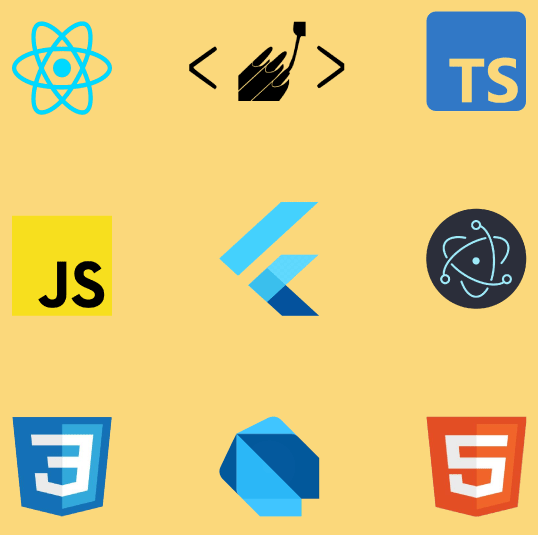
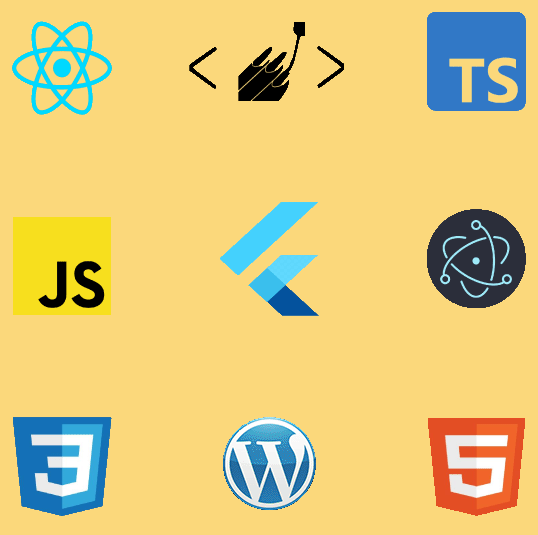
edited the text now

diff --git a/src/Components/Skills/Main.tsx b/src/Components/Skills/Main.tsx
@@ -6,15 +6,13 @@ import {
   Header,
   ImageContainer,
   Img,
-  List,
-  ListItem,
   MobileContainer,
   MobileWrapper,
   Paragraph,
   TextContainer,
   Wrapper,
 } from "./styles";
-import { ListContainer, Title, TitleContainer } from "./Skill/styles";
+import { Title, TitleContainer } from "./Skill/styles";
 
 const Main: React.FC = () => {
   const [end, setEnd] = useState<string>("front");
@@ -56,35 +54,28 @@ const Main: React.FC = () => {
                 <>
                   <Header>Front-end :</Header>
                   <Paragraph>
-                    when it comes to Front-end, apart from the will and ability
-                    to learn anything here are some of the technologies i work
-                    with:
+                    Creating user-friendly and visually stunning Front-end
+                    experiences is my passion. I specialize in using modern
+                    technologies such as ReactJS, JavaScript/TypeScript, and
+                    Flutter to build custom solutions that exceed your
+                    expectations. With experience in frameworks like React
+                    Native and Electron, as well as platforms like WordPress, I
+                    have the versatility to deliver the best solution for your
+                    business needs
                   </Paragraph>
-                  <ListContainer>
-                    <List>
-                      <ListItem>ReactJS / native</ListItem>
-                      <ListItem>Javascript/TypeScript</ListItem>
-                      <ListItem>Electron</ListItem>
-                      <ListItem>Flutter</ListItem>
-                    </List>
-                  </ListContainer>
                 </>
               ) : (
                 <>
                   <Header>Back-end :</Header>
                   <Paragraph>
-                    when it comes to Back-end, apart from the will and ability
-                    to learn anything here are some of the technologies i work
-                    with:
+                    As a Back-end developer, I take pride in building robust and
+                    scalable systems that power your applications. I specialize
+                    in using modern technologies like NodeJS, Postgresql/MySQL,
+                    and PHP to create custom solutions that meet your specific
+                    needs. With experience in ORM solutions like Prisma and
+                    Sequelize, I ensure that your data is well-managed and
+                    secure.
                   </Paragraph>
-                  <ListContainer>
-                    <List>
-                      <ListItem>NodeJs</ListItem>
-                      <ListItem>Postgresql/MySQL</ListItem>
-                      <ListItem>php</ListItem>
-                      <ListItem>Prisma/Sequelize</ListItem>
-                    </List>
-                  </ListContainer>
                 </>
               )}
             </TextContainer>

diff --git a/src/Components/Skills/Skill/Skill.tsx b/src/Components/Skills/Skill/Skill.tsx
@@ -4,9 +4,6 @@ import {
   Header,
   Image,
   ImageContainer,
-  List,
-  ListContainer,
-  ListItem,
   Paragraph,
   SkillsContainer,
   TextContainer,
@@ -74,33 +71,27 @@ const Skill: React.FC = () => {
               <>
                 <Header>Front-end :</Header>
                 <Paragraph>
-                  when it comes to Front-end, apart from the will and ability to
-                  learn anything here are some of the technologies i work with:
+                  Creating user-friendly and visually stunning Front-end
+                  experiences is my passion. I specialize in using modern
+                  technologies such as ReactJS, JavaScript/TypeScript, and
+                  Flutter to build custom solutions that exceed your
+                  expectations. With experience in frameworks like React Native
+                  and Electron, as well as platforms like WordPress, I have the
+                  versatility to deliver the best solution for your business
+                  needs
                 </Paragraph>
-                <ListContainer>
-                  <List>
-                    <ListItem>ReactJS / native</ListItem>
-                    <ListItem>Javascript/TypeScript</ListItem>
-                    <ListItem>Electron</ListItem>
-                    <ListItem>Flutter</ListItem>
-                  </List>
-                </ListContainer>
               </>
             ) : (
               <>
                 <Header>Back-end :</Header>
                 <Paragraph>
-                  when it comes to Back-end, apart from the will and ability to
-                  learn anything here are some of the technologies i work with:
+                  As a Back-end developer, I take pride in building robust and
+                  scalable systems that power your applications. I specialize in
+                  using modern technologies like NodeJS, Postgresql/MySQL, and
+                  PHP to create custom solutions that meet your specific needs.
+                  With experience in ORM solutions like Prisma and Sequelize, I
+                  ensure that your data is well-managed and secure.
                 </Paragraph>
-                <ListContainer>
-                  <List>
-                    <ListItem>NodeJs</ListItem>
-                    <ListItem>Postgresql/MySQL</ListItem>
-                    <ListItem>php</ListItem>
-                    <ListItem>Prisma/Sequelize</ListItem>
-                  </List>
-                </ListContainer>
               </>
             )}
           </TextContainer>

diff --git a/src/Components/Home/Home.tsx b/src/Components/Home/Home.tsx
@@ -37,11 +37,12 @@ import {
   ContactContainer,
   ContactWrapper,
   Img,
+  IntroContainer,
   MobileContainer,
   MobileImageContainer,
   MobileWrapper,
 } from "./mobilestyles";
-import { Intro, IntroContainer, Welcome } from "./About/styles";
+import { Intro, Welcome } from "./About/styles";
 import { SiGmail } from "react-icons/si";
 import { BsTwitter } from "react-icons/bs";
 
@@ -204,8 +205,9 @@ const Home: React.FC = () => {
                 <IntroContainer>
                   <Welcome>Hi! i'm Adem</Welcome>
                   <Intro>
-                    i'm a software engineer & full-stack developer, you request
-                    something and i build it
+                    I build custom websites and applications that deliver
+                    seamless user experiences and help businesses achieve their
+                    goals.
                   </Intro>
                 </IntroContainer>
               </MobileContainer>

diff --git a/src/Components/Home/About/About.tsx b/src/Components/Home/About/About.tsx
@@ -15,8 +15,8 @@ const About: React.FC = () => {
         <IntroContainer>
           <Welcome>Hi! i'm Adem</Welcome>
           <Intro>
-            i'm a software engineer & full-stack developer, you request
-            something and i build it
+            I build custom websites and applications that deliver seamless user
+            experiences and help businesses achieve their goals.
           </Intro>
         </IntroContainer>
         <ImageContainer>

diff --git a/src/Components/Home/mobilestyles.ts b/src/Components/Home/mobilestyles.ts
@@ -20,6 +20,17 @@ export const MobileImageContainer = styled.div`
   justify-content: center;
   align-items: center;
 `;
+export const IntroContainer = styled.div`
+  height: 50%;
+  width: 100%;
+  display: flex;
+  justify-content: center;
+  text-align: center;
+  align-items: center;
+  flex-direction: column;
+  border-top-left-radius: 16px;
+  border-bottom-left-radius: 16px;
+`;
 
 export const Img = styled.img`
   @media (min-width: 550px) {

diff --git a/src/Components/Home/About/styles.ts b/src/Components/Home/About/styles.ts
@@ -55,6 +55,7 @@ export const Welcome = styled.div`
     flex: 1;
     user-select: none;
   }
+  text-align: center;
   font-size: 2rem;
   font-weight: 600;
   color: var(--yellow);
@@ -68,7 +69,7 @@ export const Intro = styled.div`
     width: 100%;
     flex: 1;
     /* background-color: blue; */
-    padding: 15px 15px 15px 40px;
+    padding: 15px 120px 15px 40px;
     display: flex;
     align-items: flex-start;
     text-align: start;

diff --git a/src/Components/Skills/Skill/styles.ts b/src/Components/Skills/Skill/styles.ts
@@ -80,22 +80,6 @@ export const Paragraph = styled.p`
   color: var(--white);
 `;
 
-export const List = styled.ul`
-  list-style-position: inside;
-`;
-export const ListItem = styled.li`
-  font-size: 1.4rem;
-  padding: 0.625rem 0;
-  font-weight: 500;
-  color: var(--white);
-`;
-
-export const ListContainer = styled.div`
-  max-height: 60%;
-  width: 100%;
-  margin-top: 1.25rem;
-`;
-
 export const flip = keyframes`
   from{
    

diff --git a/src/Components/Skills/styles.ts b/src/Components/Skills/styles.ts
@@ -36,13 +36,6 @@ export const Header = styled.h1`
 export const Paragraph = styled.p`
   font-size: 1rem;
 `;
-export const List = styled.ul`
-  list-style-position: inside;
-`;
-export const ListItem = styled.li`
-  font-family: "Poppins", sans-serif;
-  font-size: 1rem;
-`;
 
 export const ImageContainer = styled.div<Props>`
   min-height: 50%;
